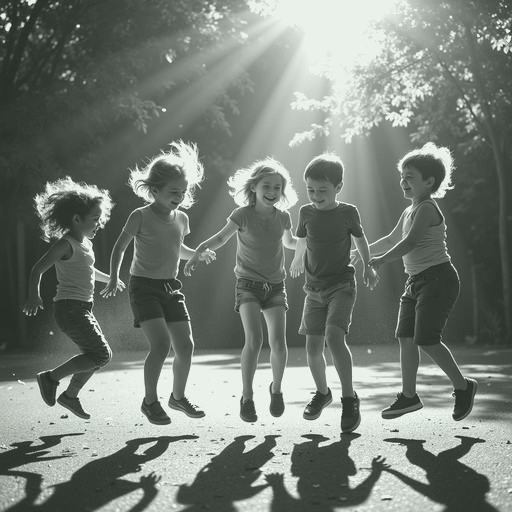
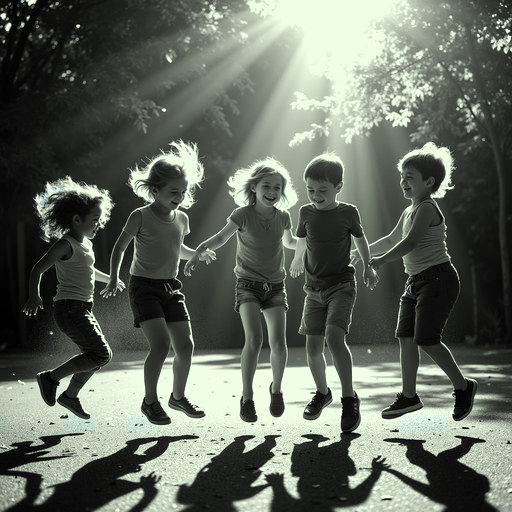
Add files via upload

diff --git a/index.html b/index.html
@@ -150,8 +150,10 @@
     flex: 0 0 40%;
     position: relative;
     overflow: hidden;
+    min-height: 520px;
+    align-self: stretch;
   }
-  .section-card img { width: 100%; height: 100%; object-fit: cover; display: block; }
+  .section-card img { position: absolute; top: 0; left: 0; width: 100%; height: 100%; object-fit: cover; display: block; }
   .scroll-section:not(.reverse) .section-card {
     clip-path: polygon(0 0, 100% 0, 82% 100%, 0 100%);
   }
@@ -159,12 +161,12 @@
     clip-path: polygon(18% 0, 100% 0, 100% 100%, 0 100%);
   }
   .section-card-label { display: flex; align-items: center; gap: 12px;
-    position: absolute; bottom: 30px; left: 30px;
+    position: absolute; top: 50%; left: 50%; transform: translate(-50%, -50%);
     font-family: 'Outfit', sans-serif; font-size: 32px; font-weight: 700;
     color: var(--claro); letter-spacing: -0.02em;
     text-shadow: 0 2px 10px rgba(0,0,0,0.5);
   }
-  .scroll-section.reverse .section-card-label { left: auto; right: 30px; }
+  .scroll-section.reverse .section-card-label { left: 50%; right: auto; }
 
   .section-content {
     flex: 1;
